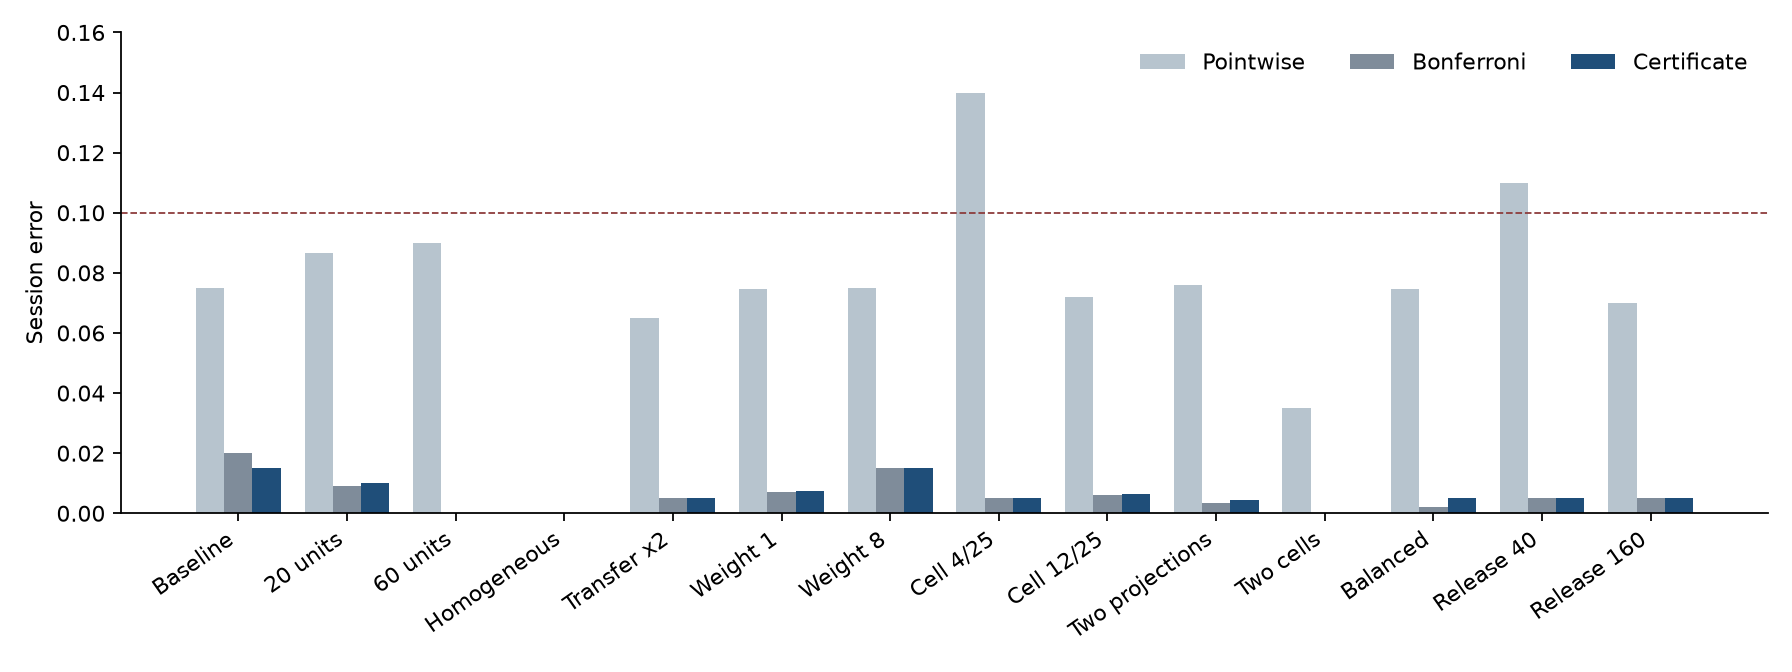
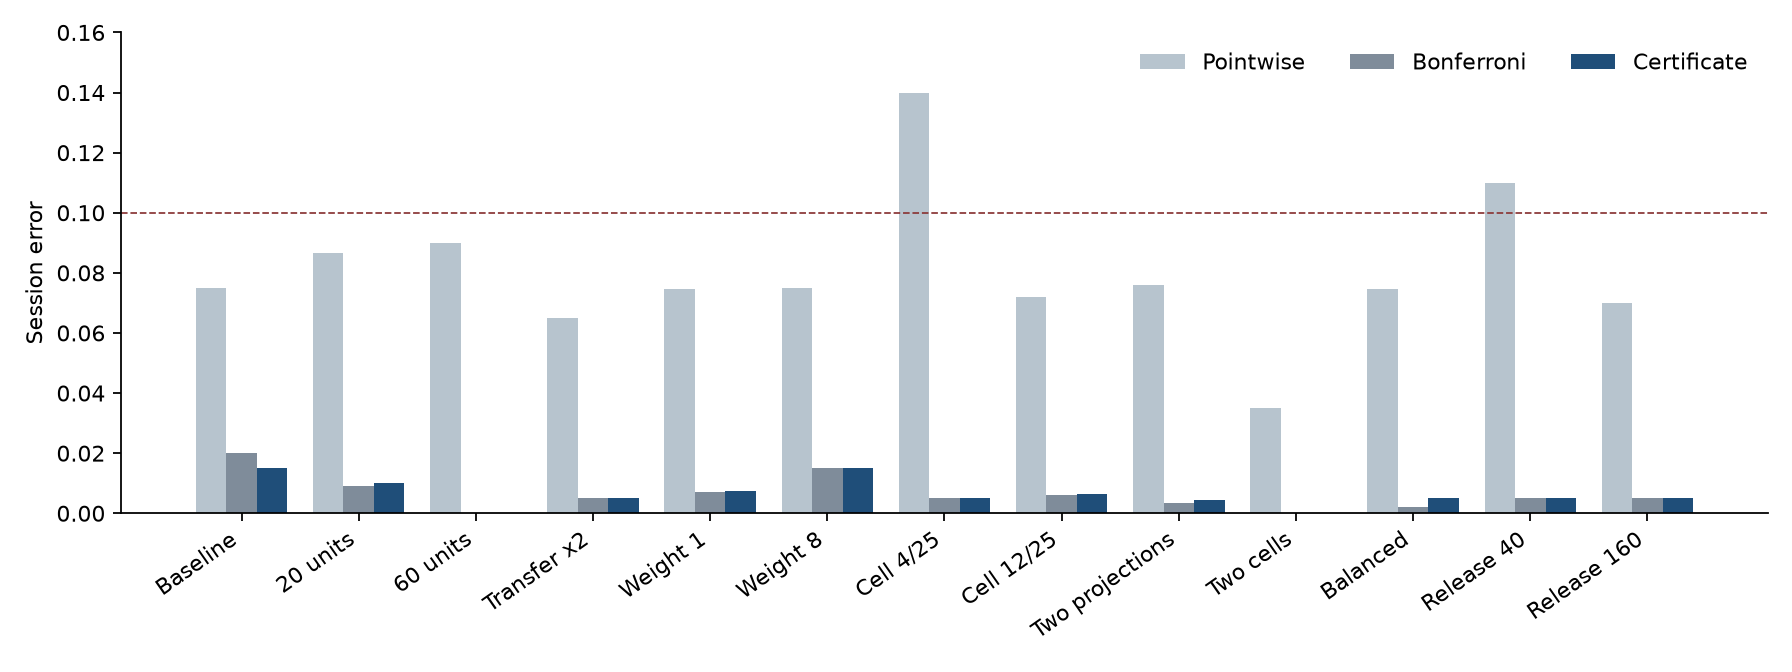
Drop the collapsed design from the session-error chart.
That design is all zeros because every interval shrinks to the point, so the chart now matches the printed comparison.

diff --git a/scripts/plot_readme_results.py b/scripts/plot_readme_results.py
@@ -18,7 +18,6 @@ ROWS = [
     ("Baseline", 0.0750, 0.0200, 0.0150),
     ("20 units", 0.0865, 0.0090, 0.0100),
     ("60 units", 0.0900, 0.0000, 0.0000),
-    ("Homogeneous", 0.0000, 0.0000, 0.0000),
     ("Transfer x2", 0.0650, 0.0050, 0.0050),
     ("Weight 1", 0.0745, 0.0070, 0.0075),
     ("Weight 8", 0.0750, 0.0150, 0.0150),

diff --git a/README.md b/README.md
@@ -30,7 +30,7 @@ Audit replicates form one coordinate-wise region. A clause is certified only whe
 
 ## Session error across the design grid
 
-Pointwise intervals lose session control when the inspection order favors narrow margins. The certificate and the Bonferroni band stay at or below the nominal level on every design below. The dashed line is that level, 0.10.
+Pointwise intervals lose session control when the inspection order favors narrow margins. The certificate and the Bonferroni band stay at or below the nominal level on every design below. The dashed line is that level, 0.10. A design in which every unit has the same composition is omitted: every interval collapses to the point, and every method has session error zero.
 
 <p align="center">
   <img src="docs/figures/fig_results.png" alt="Session error of pointwise intervals, Bonferroni bands, and the certificate across fourteen survey designs" width="96%">
